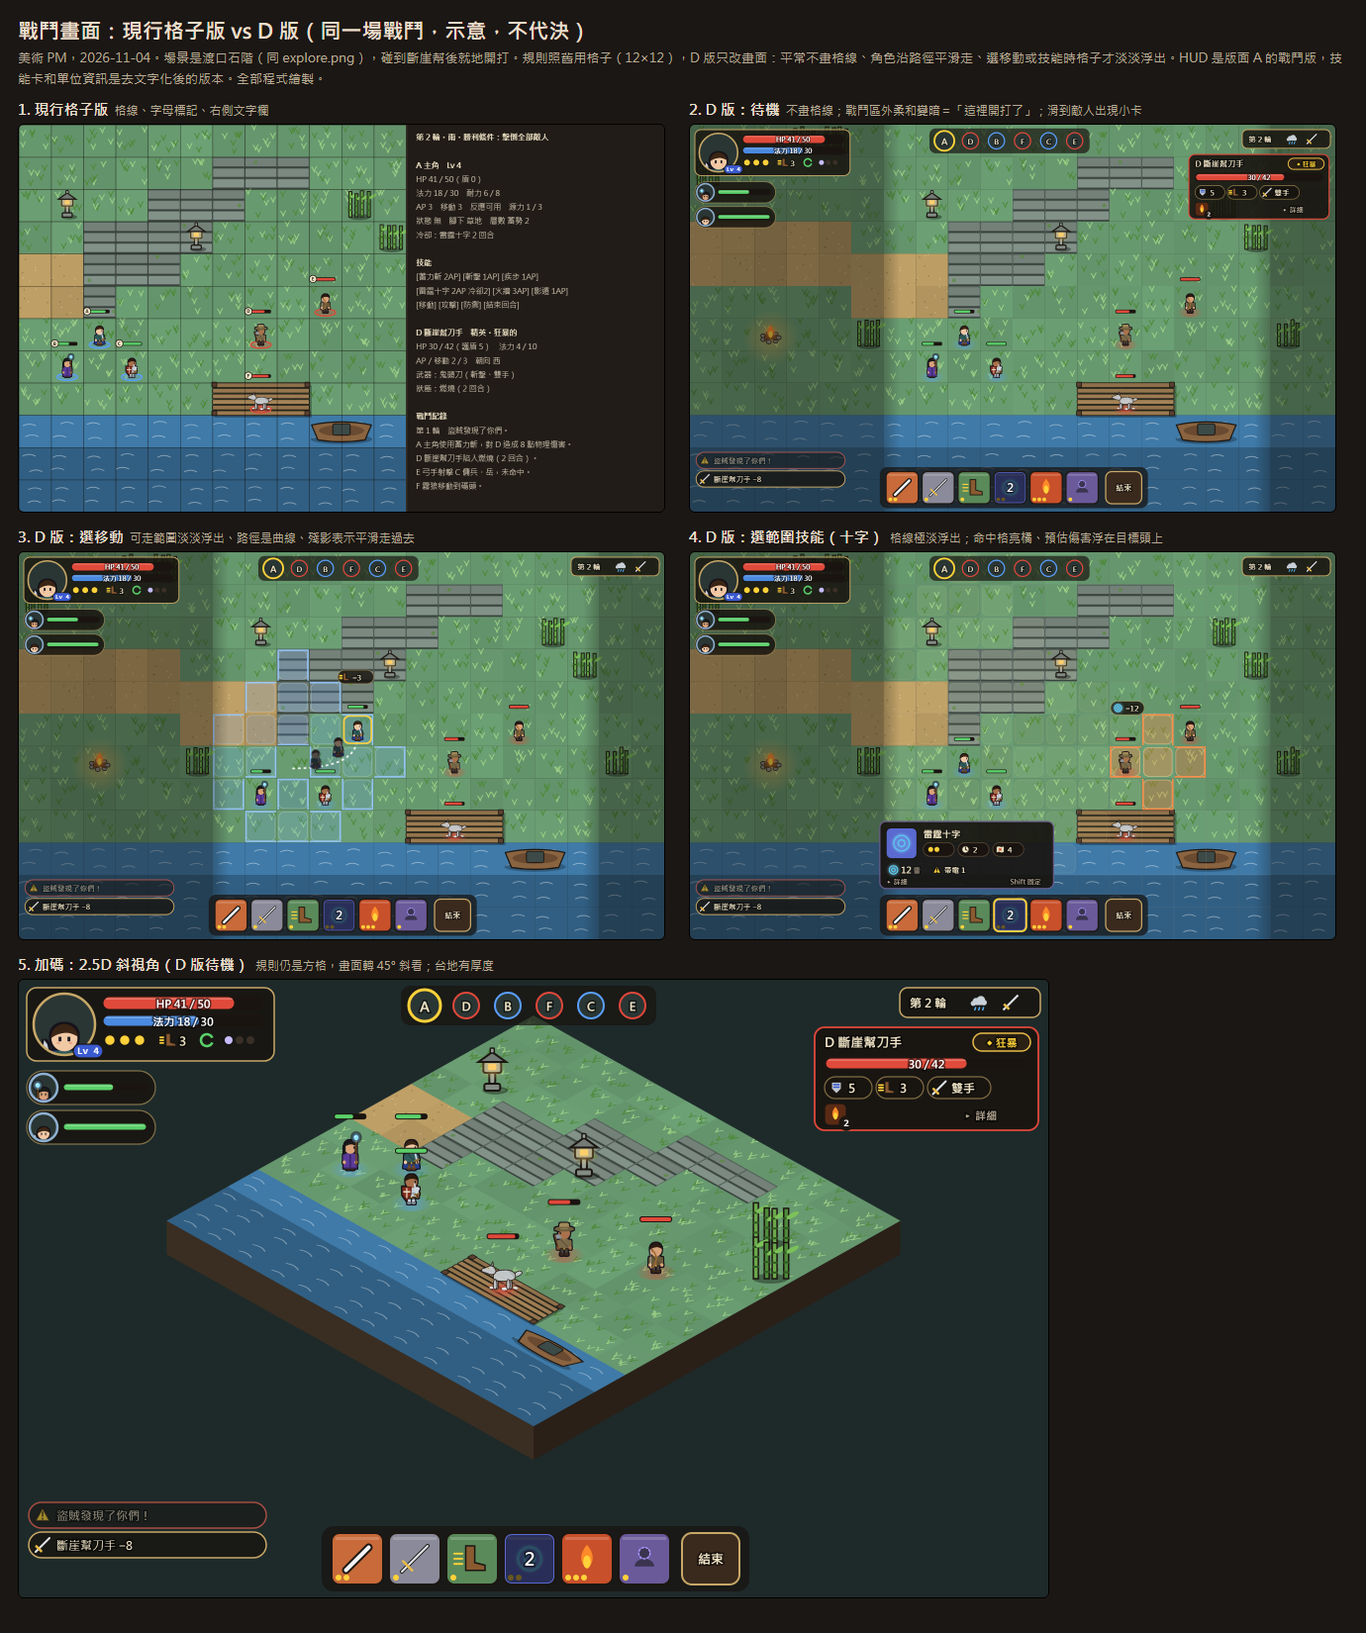
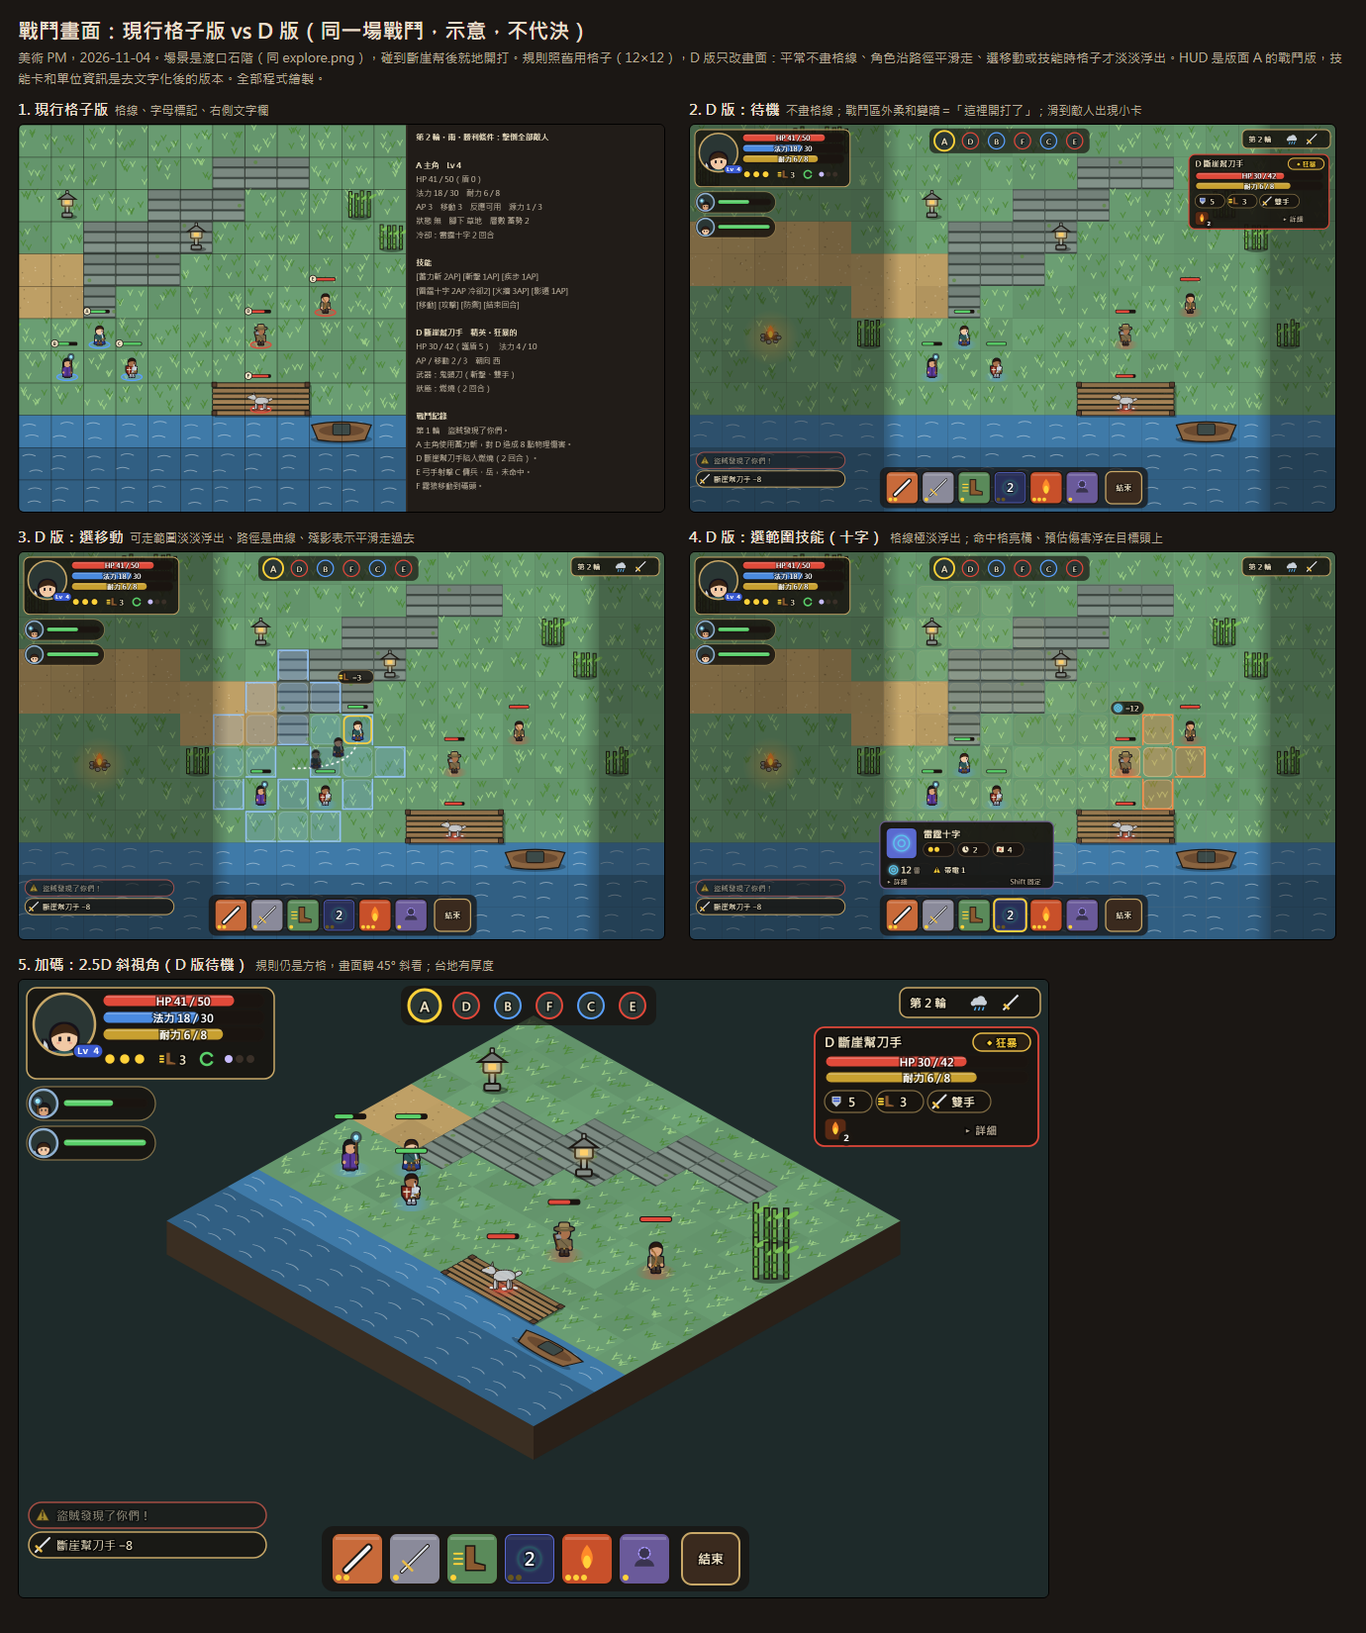
docs(art): de-texting adopted (all 5); stamina as third labeled bar; port spec

diff --git a/docs/art/sample/battle.js b/docs/art/sample/battle.js
@@ -111,14 +111,14 @@ window.Battle = (() => {
   function battleHud(c, opt = {}) {
     const W = COLS * T, Hh = ROWS * T;
     // 左上：主角卡（同探索版 A，多了 AP 圓點、反應、源力）
-    box(c, 8, 8, 250, 74, H.PANEL, H.GOLD, 1.5, 10);
+    box(c, 8, 8, 250, 92, H.PANEL, H.GOLD, 1.5, 10);
     H.portrait(c, 46, 45, 62, 0); H.badge(c, 70, 72, "Lv 4", "#3a5ad0");
-    H.bar(c, 84, 16, 164, 15, 0.82, H.HP, "HP 41 / 50"); H.bar(c, 84, 35, 164, 13, 0.6, H.MP, "法力 18 / 30");
-    for (let k = 0; k < 3; k++) { dot(c, 92 + k * 15, 61, 5.5, k < (opt.ap ?? 3) ? "#ffd23a" : "#3a3028"); c.lineWidth = 1.5; c.strokeStyle = OUT; c.beginPath(); c.arc(92 + k * 15, 61, 5.5, 0, TAU); c.stroke(); }
-    H.I.boots(c, 152, 61, 14); H.text(c, "3", 162, 62, 12);
-    c.strokeStyle = "#5ad06a"; c.lineWidth = 2.5; c.beginPath(); c.arc(190, 61, 6, 0.4, TAU - 0.4); c.stroke();
-    for (let k = 0; k < 3; k++) dot(c, 212 + k * 11, 61, 4, k < 1 ? "#c8bcff" : "#3a3028");
-    [[1, 0.6], [0, 1]].forEach(([idx, hp], i) => { const y = 92 + i * 40; box(c, 8, y, 130, 34, H.PANEL, "rgba(200,168,104,0.6)", 1.2, 17); H.portrait(c, 25, y + 17, 28, idx, "#8fb0d0"); H.bar(c, 44, y + 12, 86, 9, hp, "#5ad06a"); });
+    H.bar(c, 84, 14, 164, 14, 0.82, H.HP, "HP 41 / 50"); H.bar(c, 84, 31, 164, 14, 0.6, H.MP, "法力 18 / 30"); H.bar(c, 84, 48, 164, 14, 0.75, "#c8a030", "耐力 6 / 8");
+    for (let k = 0; k < 3; k++) { dot(c, 92 + k * 15, 80, 5.5, k < (opt.ap ?? 3) ? "#ffd23a" : "#3a3028"); c.lineWidth = 1.5; c.strokeStyle = OUT; c.beginPath(); c.arc(92 + k * 15, 80, 5.5, 0, TAU); c.stroke(); }
+    H.I.boots(c, 152, 80, 14); H.text(c, "3", 162, 81, 12);
+    c.strokeStyle = "#5ad06a"; c.lineWidth = 2.5; c.beginPath(); c.arc(190, 80, 6, 0.4, TAU - 0.4); c.stroke();
+    for (let k = 0; k < 3; k++) dot(c, 212 + k * 11, 80, 4, k < 1 ? "#c8bcff" : "#3a3028");
+    [[1, 0.6], [0, 1]].forEach(([idx, hp], i) => { const y = 108 + i * 40; box(c, 8, y, 130, 34, H.PANEL, "rgba(200,168,104,0.6)", 1.2, 17); H.portrait(c, 25, y + 17, 28, idx, "#8fb0d0"); H.bar(c, 44, y + 12, 86, 9, hp, "#5ad06a"); });
     // 上方中央：行動順序
     const order = [["A", ALLY], ["D", FOE], ["B", ALLY], ["F", FOE], ["C", ALLY], ["E", FOE]];
     const ox = W / 2 - order.length * 21;
@@ -145,13 +145,13 @@ window.Battle = (() => {
   }
   /** 去文字化後的單位資訊小卡（同 textless.png 第 2 組）。 */
   function unitCard(c, x, y) {
-    box(c, x, y, 226, 104, "rgba(24,20,16,0.9)", "#e0483a", 1.8, 10);
+    box(c, x, y, 226, 120, "rgba(24,20,16,0.9)", "#e0483a", 1.8, 10);
     H.text(c, "D 斷崖幫刀手", x + 10, y + 15, 13);
     box(c, x + 160, y + 6, 58, 18, "#2a2014", "#e8bb48", 1.5, 9); H.text(c, "◆ 狂暴", x + 189, y + 15.5, 11, "#ffd23a", "center");
-    H.bar(c, x + 10, y + 30, 206, 13, 0.7, H.HP, "30 / 42");
-    H.chip(c, x + 10, y + 50, "rank", "5", 48); H.chip(c, x + 62, y + 50, "boots", "3", 48); H.chip(c, x + 114, y + 50, "sword", "雙手", 64);
-    box(c, x + 10, y + 77, 22, 22, "#5a2a14", OUT, 1.2, 5); H.I.rest(c, x + 21, y + 88, 14); H.badge(c, x + 32, y + 97, "2", "#1c1712");
-    H.text(c, "▸ 詳細", x + 150, y + 89, 11, H.DIM);
+    H.bar(c, x + 10, y + 28, 206, 13, 0.7, H.HP, "HP 30 / 42"); H.bar(c, x + 10, y + 44, 206, 13, 0.75, "#c8a030", "耐力 6 / 8");
+    H.chip(c, x + 10, y + 64, "rank", "5", 48); H.chip(c, x + 62, y + 64, "boots", "3", 48); H.chip(c, x + 114, y + 64, "sword", "雙手", 64);
+    box(c, x + 10, y + 92, 22, 22, "#5a2a14", OUT, 1.2, 5); H.I.rest(c, x + 21, y + 103, 14); H.badge(c, x + 32, y + 112, "2", "#1c1712");
+    H.text(c, "▸ 詳細", x + 150, y + 104, 11, H.DIM);
   }
   /** 去文字化後的技能卡（同 textless.png 第 1 組）。 */
   function skillCard(c, x, y) {

diff --git a/docs/art/sample/textless.html b/docs/art/sample/textless.html
@@ -132,10 +132,11 @@
     <div class="tag"><b>改後</b>：一張小卡，數字都在圖示旁</div>
     <div class="card plain" style="width:300px">
       <div class="row" style="justify-content:space-between"><span class="title">B 斷崖幫刀手</span><span class="chip" style="border-color:#e8bb48">◆ 狂暴</span></div>
-      <div class="bar"><i style="width:71%;background:#e04a3a"></i><span>30 / 42</span></div>
+      <div class="bar"><i style="width:71%;background:#e04a3a"></i><span>HP 30 / 42</span></div>
+      <div class="bar"><i style="width:75%;background:#c8a030"></i><span>耐力 6 / 8</span></div>
       <div class="row small"><span class="chip"><svg><use href="#shield"/></svg>5</span><span class="chip"><svg><use href="#mp"/></svg>4</span><span class="chip"><svg><use href="#ap"/></svg>2</span><span class="chip"><svg><use href="#boot"/></svg>3</span><span class="chip"><svg><use href="#sword"/></svg>雙手</span></div>
       <div class="row" style="margin-top:8px"><span class="st" style="background:#5a2a14"><svg><use href="#fire"/></svg><b>2</b></span><span class="st" style="background:#3a2a48"><svg><use href="#vuln"/></svg><b>1</b></span><span class="muted small">　腳下</span><span class="st" style="background:#2a2418"><svg viewBox="0 0 20 20"><ellipse cx="10" cy="12" rx="7" ry="4" fill="#3a3020" stroke="#c8a040" stroke-width="1.5"/></svg></span></div>
-      <div class="more"><span>▸ 詞綴、特性、耐力</span><span class="pin">📌 釘選</span></div>
+      <div class="more"><span>▸ 詞綴、特性</span><span class="pin">📌 釘選</span></div>
     </div>
     <div class="small muted" style="margin-top:8px">朝向不寫字：戰場上的單位本來就看得出朝向（3S 真側面）。詞綴說明滑到金色徽章上才出現。</div>
   </div>
@@ -152,12 +153,12 @@
   </div>
   <div class="arrow">→</div>
   <div>
-    <div class="tag"><b>改後</b>：兩條、一列圖示</div>
+    <div class="tag"><b>改後</b>：三條（HP、法力、耐力）、一列圖示；每個都能滑過看說明</div>
     <div class="card plain" style="width:320px">
       <div class="bar" style="height:16px"><i style="width:82%;background:#e04a3a"></i><span style="line-height:15px;font-size:11px">HP 41 / 50</span></div>
-      <div class="bar"><i style="width:60%;background:#4a8ae0"></i><span>法力 18 / 30</span></div>
+      <div class="bar" style="height:16px"><i style="width:60%;background:#4a8ae0"></i><span style="line-height:15px;font-size:11px">法力 18 / 30</span></div>
+      <div class="bar" style="height:16px"><i style="width:75%;background:#c8a030"></i><span style="line-height:15px;font-size:11px">耐力 6 / 8</span></div>
       <div class="row" style="margin-top:6px">
-        <span class="chip"><svg><use href="#stam"/></svg>6</span>
         <span class="chip"><svg><use href="#boot"/></svg>3</span>
         <span class="chip" title="反應可用"><svg><use href="#react"/></svg></span>
         <span class="chip"><svg><use href="#src"/></svg><span class="pip"></span><span class="pip off"></span><span class="pip off"></span></span>
@@ -165,6 +166,9 @@
         <span class="st" style="background:#3a2a14"><svg><use href="#slash"/></svg><b>2</b></span>
       </div>
       <div class="small muted" style="margin-top:6px">充能、冷卻直接畫在技能列的按鈕上（數字＋灰色遮罩），不在這裡重複。</div>
+    </div>
+    <div class="tip">滑到耐力條上：「耐力」＋現有的耐力說明（同現在 HUD 耐力條的說明）</div>
+    <div style="display:none">
     </div>
   </div>
 </div>

diff --git a/docs/art/去文字化移植需求.md b/docs/art/去文字化移植需求.md
@@ -1,0 +1,119 @@
+# 介面去文字化移植需求（5 項全做）
+
+美術 PM，2026-11-04。
+
+> 使用者決定（專案 PM 轉達）：「5 項全做 但耐力也改條不要數字 行嗎?然後腳色狀態滑鼠滑到上面還是會解釋」
+> 耐力條的更正（使用者原話）：「滑鼠滑上去才會看到「耐力 6／8」 不是不是 依樣粗 然後會顯示字」——耐力條和 HP、法力一樣粗，條上直接寫「耐力 6／8」。
+
+依據：
+- 盤點：`HUD版面.md` 第二部分；
+- 改前／改後對照：`textless.png`；
+- 戰鬥畫面整體樣張：`battle-d.png` 的 D 版。
+
+排入 Phase 6。
+
+## 0. 建議順序
+
+| 順序 | 項目（`HUD版面.md` 第 6 節） | 估計 |
+|---|---|---|
+| 先做 | 2. 技能卡減字 | 0.5 段 |
+| 先做 | 3. 戰鬥的主角狀態卡和單位資訊 | 0.5 段 |
+| 先做 | 4. 戰鬥紀錄收起來，操作說明句只出現前 3 次 | 0.25 段 |
+| 和 #120 一起 | 1. 探索與城鎮的 HUD（版面 A，另見 `HUD移植需求.md`） | 1～1.5 段 |
+| 之後 | 5. 事件與情境判定改成對話框＋骰子動畫 | 0.75 段 |
+
+第 2～4 項不用等 #120，可以先做。
+
+## 1. 共通規則：滑過說明
+
+1. **每個圖示、每條條、每個數字徽章都要有說明卡**，至少寫名稱、現在的值，再加一句說明。
+   - 使用者原話：「腳色狀態滑鼠滑到上面還是會解釋」。
+   - 說明的文字用現有的（例如 `actionCardText("stamina")`、`statusText`），不另外寫新的。
+2. **電腦**：照現有的 `Hint`、`useFloatCard`，滑過就出現，有延遲、Esc 關閉、不出畫面。
+3. **手機與觸控**：
+   - **目前的做法**：觸控是「點一下開關說明卡」（`useFloatCard({ pinOn: "touch" })`，3T-4），沒有長按。
+   - 狀態卡上的條和圖示**本身沒有動作**，所以點一下開說明就好，沿用現有做法，不用新增長按。
+   - **本身有動作的按鈕**（技能列、功能列）：點一下要執行動作，所以說明改成**長按約 0.4 秒**才出現，放開不執行動作。這是新增的行為。
+   - 這條請開發 PM 確認，因為會和現在技能列「觸控點一下釘住技能卡」的做法不同。
+
+## 2. 技能卡（第 2 項）
+
+照 `textless.png` 第 1 組：
+- **常駐 3 行**：
+  - 名稱；
+  - 一排圖示＋數字：AP 用圓點、冷卻、射程，延遲、蓄力這類時機用圖示；
+  - 一行效果數字：傷害數字＋元素圖示、位移格數、縮放屬性圖示。
+- **收進「▸ 詳細」**：組裝算式、關鍵字、條件、修正、算式、層數、召喚物、戰場變奏、縮放與專精。
+- 標題列不再寫稀有度和類型：稀有度看外框顏色，類型和骨架看圖示形狀（3-18 已做）。
+- 效果數字滑過時，顯示算式。
+- Shift（觸控是圖釘）可以把卡固定住。
+- 技能列、三選一、營火、任務獎勵、工坊的候選卡都用這張卡。工坊預設展開「詳細」。
+- **資料**：伺服器要把 `cost`、`effects` 從組好的句子，拆成「數字＋單位＋類別」的欄位。舊的句子欄位留著，給「詳細」和說明卡用。
+
+## 3. 戰鬥的主角狀態卡和單位資訊（第 3 項）
+
+### 主角狀態卡
+
+照 `textless.png` 第 3 組、`battle-d.png` 左上：
+- **三條，一樣粗，條上都寫字**：
+  - HP：`#e04a3a`，寫「HP 41 / 50」；
+  - 法力：`#4a8ae0`，寫「法力 18 / 30」；
+  - **耐力**：`#c8a030`（土黃，和 HP 的紅、法力的藍分得開，也和經驗的亮金不同），寫「耐力 6 / 8」。
+- 原本的「耐力圖示＋數字」徽章拿掉。
+- 下面一排圖示：
+  - AP：圓點；
+  - 移動：圖示＋數字；
+  - 反應：圖示，用過了變灰；
+  - 源力：3 個圓點；
+  - 腳下的地表：圖示；
+  - 狀態與層數：狀態圖示，右下角寫回合數或層數。
+- 充能、冷卻只畫在技能列的按鈕上（數字＋灰色遮罩），狀態卡不重複。
+- 護盾：HP 條上疊一段淺藍，滑過才看數字。
+- 每條條、每個圖示都照第 1 節，滑過看說明。
+
+### 戰場單位小卡（點選或滑過單位）
+
+照 `textless.png` 第 2 組、`battle-d.png` 右上：
+- 名稱，加上精英或詞綴的金色徽章（徽章滑過看詞綴說明）；
+- HP 條和**耐力條**：和主角卡一樣粗、一樣寫字；
+- 圖示＋數字：護盾、法力、AP、移動、武器；
+- 狀態圖示加回合數，腳下的地表用圖示；
+- 朝向不寫字，看小人就知道（3S 真側面）；
+- 特性、詞綴說明收進「▸ 詳細」；
+- 可以釘選（圖釘），釘住的小卡在敵人回合也一直顯示。
+
+## 4. 戰鬥紀錄收起來＋操作說明（第 4 項）
+
+1. 戰鬥紀錄：
+   - 預設收成左下 2～3 條浮動提示，舊的淡出；
+   - 點紀錄圖示才展開完整清單；
+   - 展開可以釘選，釘住就一直顯示。
+2. 行動列的操作說明句（「點選紫色格子…Esc／右鍵取消」這類）：
+   - 每一種說明句只在前 3 次出現，次數記在本機；
+   - 之後收進「?」圖示，滑過或點一下才看。
+3. 設定裡加一個「重新顯示操作說明」。
+
+## 5. 探索與城鎮的 HUD（第 1 項）
+
+照 `HUD移植需求.md`。
+
+## 6. 事件與情境判定（第 5 項）
+
+照 `HUD版面.md` 5.7：
+- 說書人敘事保留，改成對話框（頭像＋一段字），一次一段，按一下播下一段；
+- 選項前面加圖示；
+- DC 用骰子圖示＋數字；
+- 擲骰有動畫，結果用顏色表示。
+
+## 7. 檢查清單（美術 PM 驗收時看）
+
+- [ ] 主角狀態卡：
+  - 三條一樣粗，條上都有字；
+  - 耐力條是土黃色；
+  - 原本的耐力徽章拿掉了。
+- [ ] 單位小卡也有一樣的耐力條。
+- [ ] 狀態卡的每條條、每個圖示，滑鼠滑過都有名稱和說明。觸控時點一下開說明；有動作的按鈕要長按才出說明。
+- [ ] 技能卡常駐 3 行，「詳細」展開後原本的資訊都在，沒有資訊消失。
+- [ ] 戰鬥紀錄預設是浮動提示，可以展開，也可以釘住。
+- [ ] 操作說明句出現 3 次後收進「?」，設定裡可以重新打開。
+- [ ] 800×600 和 1600×900 兩種大小都不擋住戰場中央。

diff --git a/docs/art/HUD版面.md b/docs/art/HUD版面.md
@@ -101,7 +101,7 @@
 | ✂ 刪或縮 | 長句可以直接刪掉，或縮成一行 | 規則說明句、操作教學句、重複的資訊 |
 
 共通做法：
-- **滑鼠移上去**看說明，沿用現有的 `Hint`、`HoverFloat`；
+- **滑鼠移上去**看說明，沿用現有的 `Hint`、`HoverFloat`。狀態卡上每個圖示、每條條都要有說明（使用者 11-04：「腳色狀態滑鼠滑到上面還是會解釋」）。觸控：沒有動作的圖示點一下開說明（現有做法），有動作的按鈕長按才出說明（新增）；
 - **Shift 或圖釘**把浮動卡固定住；
 - **操作教學句**（「點選紫色格子…Esc／右鍵取消」這類）只在前 3 次出現，之後收進「?」圖示。
 
@@ -133,7 +133,8 @@
 | 資訊 | 現在 | 類別 | 怎麼改 |
 |---|---|---|---|
 | 主角 HP、法力 | 條＋文字 | ② | 兩條帶數字的條（對照圖第 3 組） |
-| 耐力、移動、AP | 一行一項文字 | ② | 圖示＋數字；AP 用圓點 |
+| 耐力 | 一行文字 | ② | **第三條條，和 HP、法力一樣粗，條上寫「耐力 6／8」**（使用者 11-04；顏色 `#c8a030`） |
+| 移動、AP | 一行一項文字 | ② | 圖示＋數字；AP 用圓點 |
 | 反應可用／已用 | 文字 | ① | 一個圖示，用過變灰 |
 | 源力 | 文字「1 / 3」 | ② | 3 個圓點 |
 | 充能、冷卻 | 主角卡和技能列各寫一次 | ② | 只畫在技能列的按鈕上（數字＋灰色遮罩），主角卡不重複 |
@@ -142,7 +143,7 @@
 | 彈匣 | 文字＋圓點 | ② | 只留圓點 |
 | 技能列 | 圖示（已做） | ① | 不變；滑過出現技能卡 |
 | 技能卡（浮動卡） | 約 14 行 | ②＋③＋④ | 常駐留：名稱、AP 點、冷卻、射程、一行效果數字；算式、修正、層數、變奏、縮放收進「詳細」；Shift 固定（對照圖第 1 組） |
-| 戰場單位資訊 | 表格 9 列 | ②＋③＋④ | 小卡：HP 條、圖示＋數字、狀態圖示；朝向不寫（看小人就知道）；詞綴、特性 ③；可以釘選（對照圖第 2 組） |
+| 戰場單位資訊（含耐力條，同主角卡） | 表格 9 列 | ②＋③＋④ | 小卡：HP 條、圖示＋數字、狀態圖示；朝向不寫（看小人就知道）；詞綴、特性 ③；可以釘選（對照圖第 2 組） |
 | 行動列的操作說明句 | 長句 | ✂ | 只在前 3 次顯示，之後收進「?」；落點用的顏色已經在格子上，不用再寫 |
 | 「預覽」的效果清單 | 清單 | ②＋③ | 在目標格上浮出傷害數字和命中率；清單 ③ |
 | 召喚物面板（模式、指揮、灌注） | 按鈕＋說明句 | ①＋③ | 模式改成圖示切換鈕；AP 花費寫在按鈕上；說明 ③ |
@@ -227,7 +228,11 @@
 - 第 1 項等使用者選好 HUD 版面，跟可走動畫面一起排；
 - 第 2、3、4 項可以先做，不用等。
 
-## 7. 等使用者決定的事
+## 7. 使用者的決定（11-04）
+
+使用者原話：「5 項全做 但耐力也改條不要數字 行嗎?然後腳色狀態滑鼠滑到上面還是會解釋」；耐力條更正：「不是不是 依樣粗 然後會顯示字」。移植需求：`去文字化移植需求.md`。
+
+## 7-舊. 原本等使用者決定的事
 
 1. HUD 用哪一種版面（A、B、C，見第 1 節）。
 2. 第 6 節的 5 項要做哪幾項、順序怎麼排。

diff --git a/docs/美術PM交接.md b/docs/美術PM交接.md
@@ -58,6 +58,7 @@
 | 矮牆改畫（暖色石塊＋外框） | 3-18b | `矮牆.md` |
 | 戰場效果與狀態圖示（狀態外框依增益／減益／中性、頭頂狀態列、身上特效 5 類、冰牆／荊棘／裂痕／陷阱／區域三種樣式／煙霧上層） | 3-36a、3-36b 完成並驗收；3-38 可燃火苗平時淡化 | `戰場效果與狀態圖示.md`、`3-36a檢查.md`、`3-36b檢查.md`、`3-38檢查.md` |
 | 網遊式 HUD：版面 A「四角分散」＋23 項對照表 | **使用者 11-04 採用**（原話：「四角分」，回應專案 PM 問「要選 A 的話……」）；對照表先照美術 PM 版本，使用者逐項改再更新；移植需求已交開發 PM，排 Phase 6 UI 段落（和 #120 可走動畫面一起） | `HUD版面.md`、`HUD移植需求.md`、`hud.png` |
+| 介面去文字化 5 項全做（技能卡、戰鬥狀態卡與單位資訊、戰鬥紀錄收起、探索 HUD、事件對話框）；耐力改成第三條條（和 HP、法力一樣粗、條上寫字）；狀態卡每項滑過有說明 | **使用者 11-04 採用**（原話：「5 項全做 但耐力也改條不要數字 行嗎?然後腳色狀態滑鼠滑到上面還是會解釋」；更正：「不是不是 依樣粗 然後會顯示字」）；已交開發 PM 排 Phase 6，建議第 2～4 項先做 | `去文字化移植需求.md`、`HUD版面.md` 第二部分、`textless.png`、`battle-d.png` |
 | 碎界五區世界觀美術（色票、五區換皮規則、地圖覆寫） | 使用者 10-23 全選 A（魔導科技、五區、各區有槍、先做雲嶺）；雲嶺 3-37a／b 完成並驗收（雲海山谷已調暗） | `碎界五區比較.md`、`區域外觀換法.md`、`雲嶺移植需求.md`、`3-37b檢查.md`、`realms.png`；戰場配對見共用筆記 `美術PM-五區戰場外觀.md` |
 | 魔導劍（#46） | 10-24 樣張完成、交開發 PM（第二批武器） | `魔導劍.md`、`arcane-blade.png` |
 | 形態外觀（#48，第一批 10 種：熊、貓、鳥、惡魔、巨人、元素化身、暗影、樹人、狼人、龍） | 全部另畫、帶主角主色、比召喚物大一號＋形態光環；3J-5 以 C 畫風實作並驗收（`3J-5檢查.md`） | `形態外觀.md` 最後一節「定稿方向」、`forms10.png`、`sample/formArt.js` |
